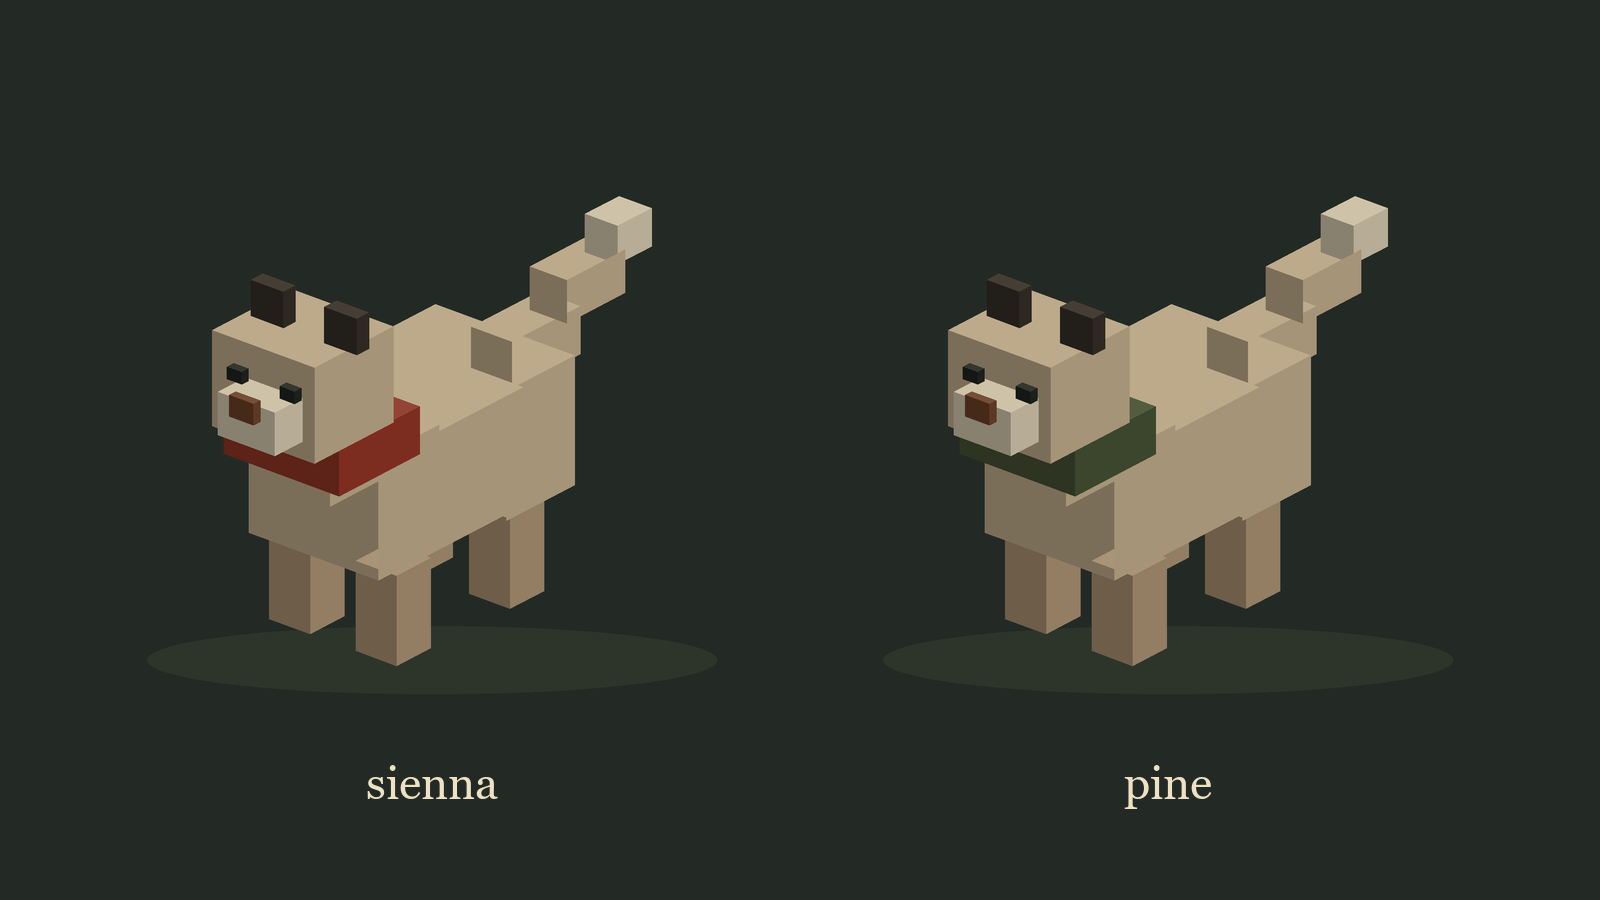
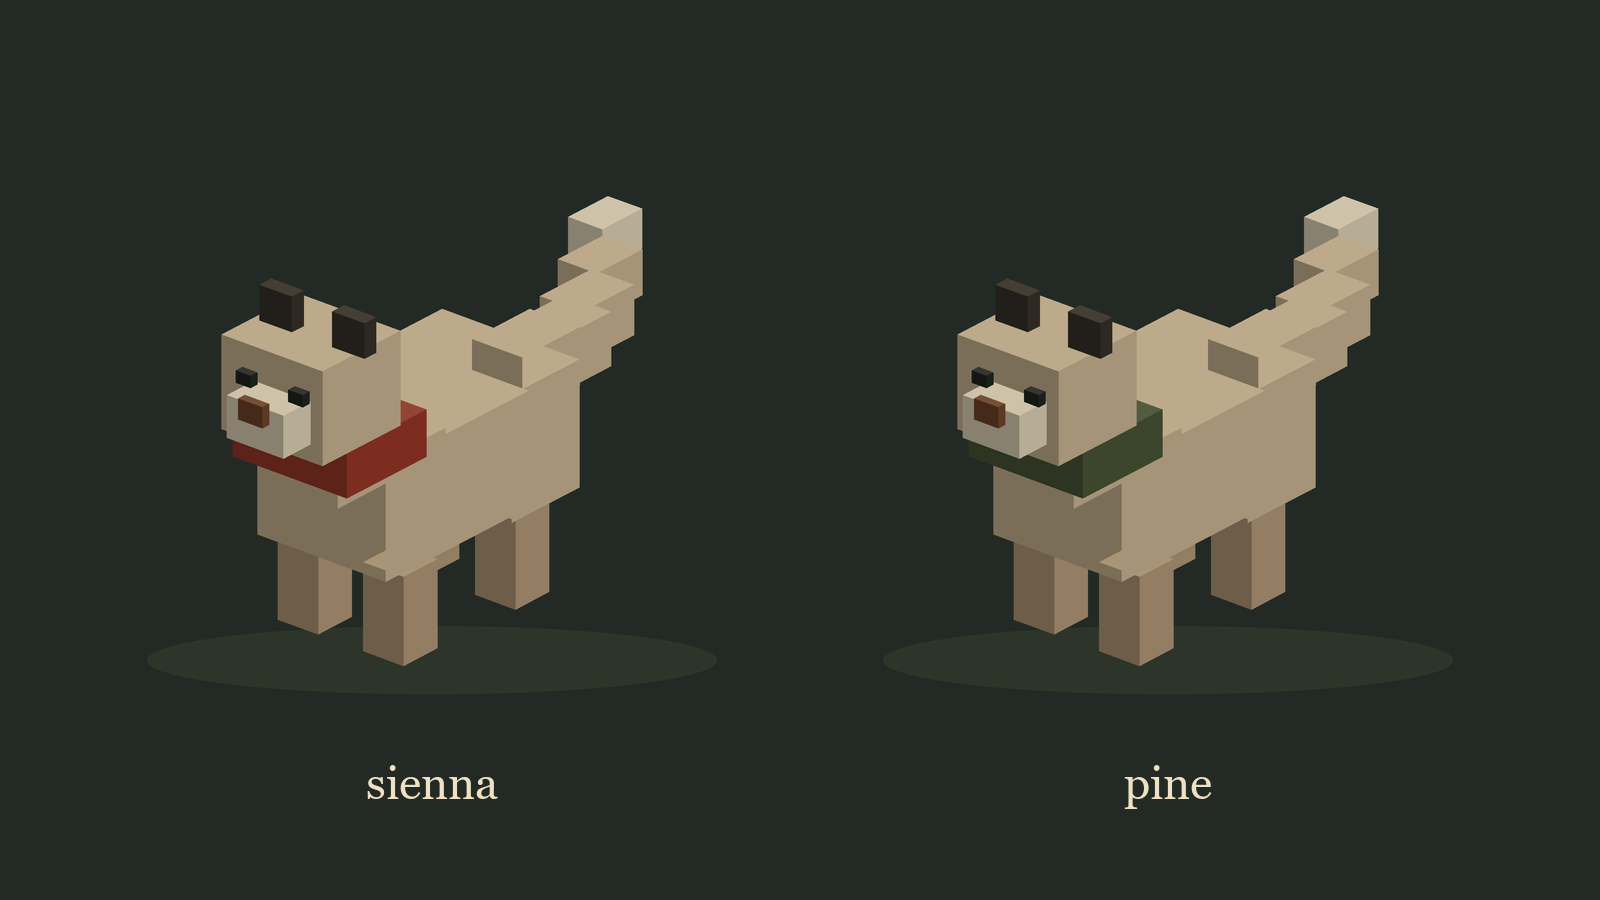
fix: give the leopards a tail worth the name (v0.9.2)
Three stepped blocks with daylight at the corners, thinner than a leg, sitting
up off the rump like an aerial.

It is now five overlapping segments that taper from thicker than a leg down to
a cream tip, sweeping back and to one side before it lifts. The sideways curve
is the part that matters for how it reads: a tail that runs straight back
points away from the camera and foreshortens into a receding staircase, while
one that curves shows its length in profile.

Same numbers in Looks.PlaceholderLeopard and in the renderer's copy.

diff --git a/Assets/Crawler/Render/Looks.cs b/Assets/Crawler/Render/Looks.cs
@@ -370,12 +370,16 @@ namespace Crawler.Render
             }
 
             // Named 'Tail' so the Critter animation finds it and wags it about this pivot.
+            // Five overlapping segments rather than three stepped ones: the old tail showed
+            // daylight at every corner and was thinner than a leg.
             var tail = new GameObject("Tail").transform;
             tail.SetParent(anim, false);
-            tail.localPosition = new Vector3(0f, 0.357f, -0.238f);
-            Block(tail, fur, new Vector3(0f, 0f, -0.068f), new Vector3(0.085f, 0.085f, 0.17f));
-            Block(tail, fur, new Vector3(0f, 0.06f, -0.196f), new Vector3(0.077f, 0.077f, 0.145f));
-            Block(tail, cream, new Vector3(0f, 0.11f, -0.2975f), new Vector3(0.068f, 0.068f, 0.085f));
+            tail.localPosition = new Vector3(0f, 0.33f, -0.238f);
+            Block(tail, fur, new Vector3(0f, 0f, -0.055f), new Vector3(0.105f, 0.105f, 0.145f));
+            Block(tail, fur, new Vector3(0.012f, -0.01f, -0.155f), new Vector3(0.098f, 0.098f, 0.14f));
+            Block(tail, fur, new Vector3(0.035f, 0f, -0.25f), new Vector3(0.09f, 0.09f, 0.13f));
+            Block(tail, fur, new Vector3(0.07f, 0.03f, -0.325f), new Vector3(0.082f, 0.082f, 0.115f));
+            Block(tail, cream, new Vector3(0.11f, 0.075f, -0.385f), new Vector3(0.072f, 0.072f, 0.1f));
         }
 
         static void Block(Transform parent, Color c, Vector3 pos, Vector3 scale)

diff --git a/tools/render_models.py b/tools/render_models.py
@@ -39,10 +39,12 @@ def leopard(accent):
     for ex in (-0.055, 0.055):
         b.append(((ex, 0.523, 0.343), (0.031, 0.022, 0.017), NIGHT))
         b.append(((ex * 1.3909, 0.6035, 0.2295), (0.068, 0.064, 0.03), ROSETTE))
-    tx, ty, tz = 0, 0.357, -0.238
-    for (x, y, z), s, c in (((0, 0, -0.068), (0.085, 0.085, 0.17), fur),
-                            ((0, 0.06, -0.196), (0.077, 0.077, 0.145), fur),
-                            ((0, 0.11, -0.2975), (0.068, 0.068, 0.085), cream)):
+    tx, ty, tz = 0, 0.33, -0.238
+    for (x, y, z), s, c in (((0, 0, -0.055), (0.105, 0.105, 0.145), fur),
+                            ((0.012, -0.01, -0.155), (0.098, 0.098, 0.14), fur),
+                            ((0.035, 0, -0.25), (0.09, 0.09, 0.13), fur),
+                            ((0.07, 0.03, -0.325), (0.082, 0.082, 0.115), fur),
+                            ((0.11, 0.075, -0.385), (0.072, 0.072, 0.1), cream)):
         b.append(((tx + x, ty + y, tz + z), s, c))
     k = 1.15
     return [((p[0] * k, p[1] * k, p[2] * k), (s[0] * k, s[1] * k, s[2] * k), c) for p, s, c in b]

diff --git a/README.md b/README.md
@@ -6,7 +6,7 @@ A networked two-player co-op puzzle crawler, drawn like a 1970s national park po
 
 This repository is the **Unity client**. The authoritative simulation is a separate server called **Hollowline**, in `server/`: it owns all game state, and the client renders what it is told and sends input. A mock feed inside the client stands in for it when you play offline, which is still the default.
 
-Current version: **v0.9.1** (see [Versioning](#versioning)).
+Current version: **v0.9.2** (see [Versioning](#versioning)).
 
 ## Requirements
 
@@ -261,6 +261,7 @@ The project follows [Semantic Versioning](https://semver.org). While it is below
 
 | Version | Summary |
 | --- | --- |
+| v0.9.2 | A thicker tail that sweeps and curls instead of three stepped stubs |
 | v0.9.1 | A staged render of the two leopards, with cast shadows |
 | v0.9.0 | Hollowline runs: a headless server hosting the same rule code the client does, serving clients over TCP |
 | v0.8.2 | The server has a name, Hollowline, and the player is built as High Hollow rather than as "My project" |
